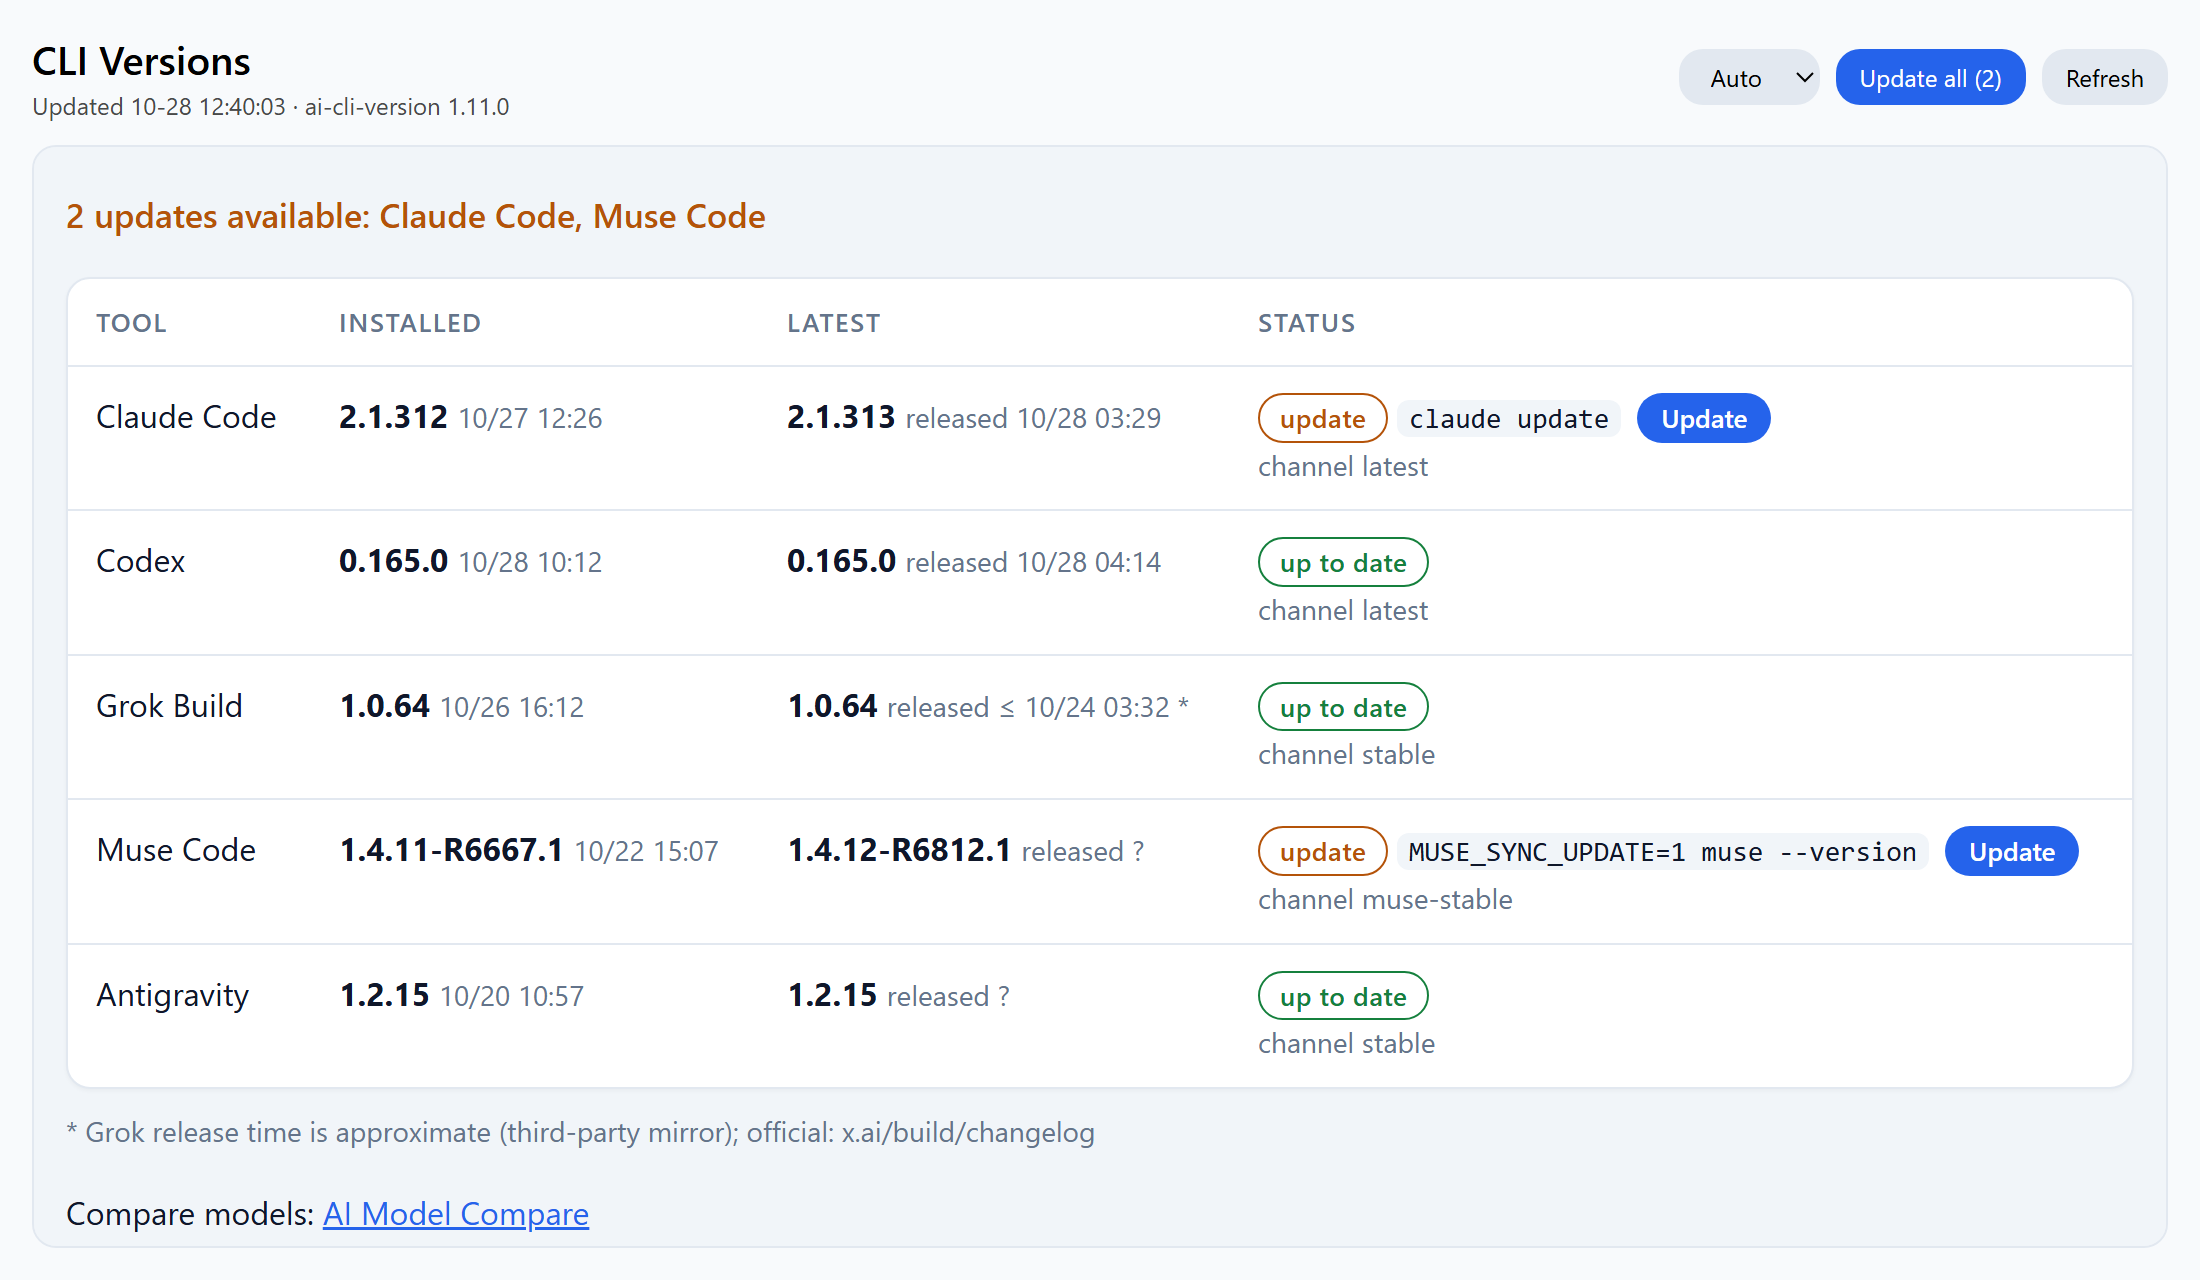
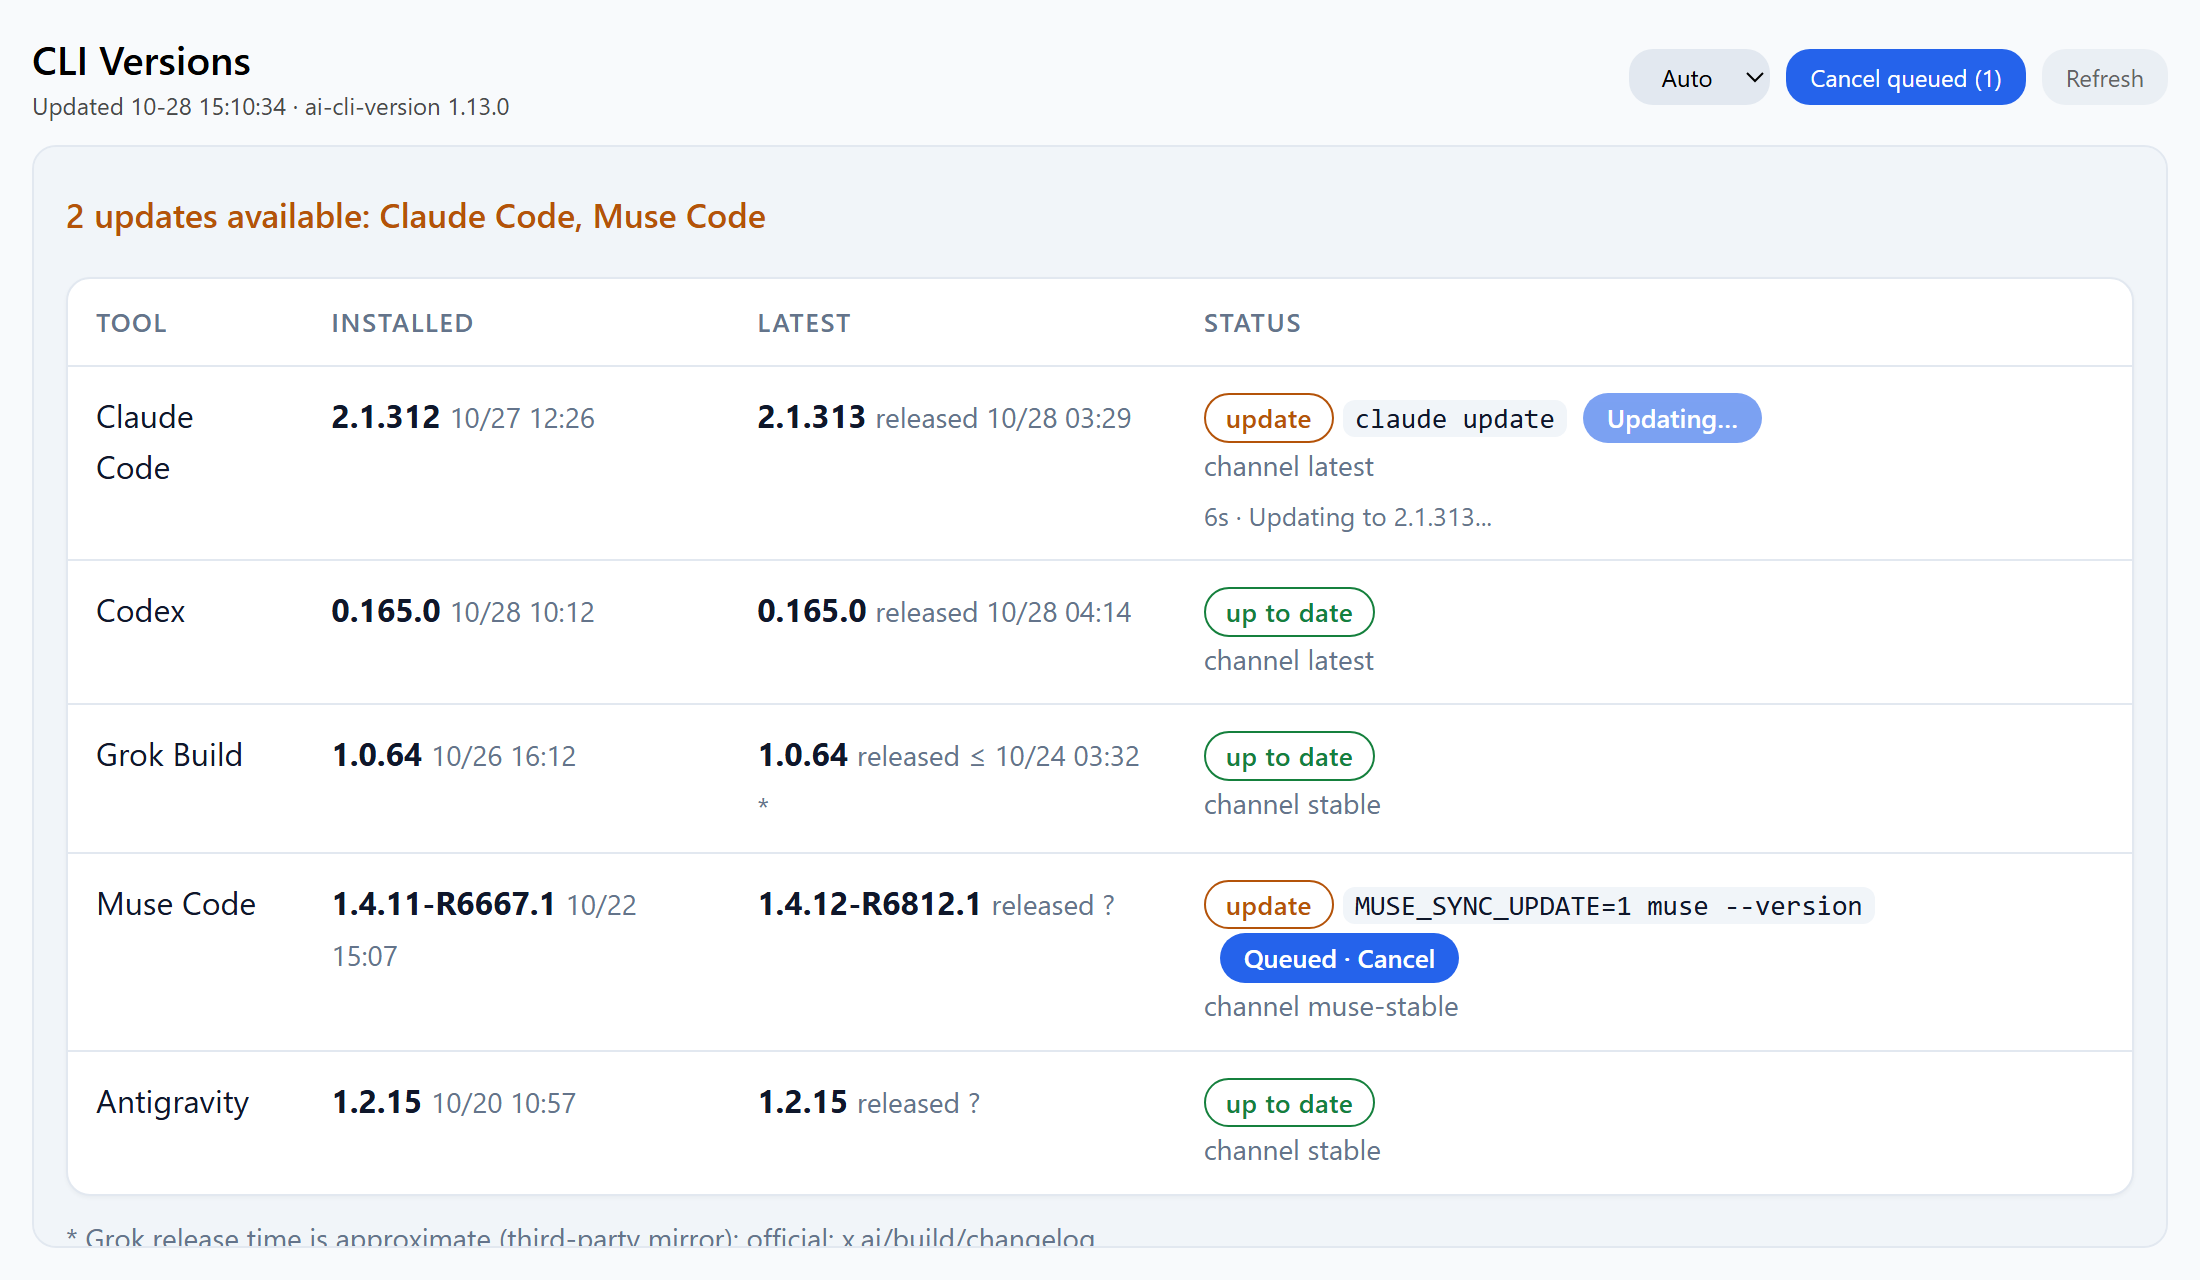
fix: improve Codex session lookup and update report documentation

diff --git a/skills/ai-usage/session_info.py b/skills/ai-usage/session_info.py
@@ -8,7 +8,11 @@ no credentials, nothing launched. Field names found 2026-09-22 on Windows 11:
 
   claude  ~/.claude/projects/<proj>/<id>.jsonl
           assistant lines: message.model, effort, perTurnEffort
-  codex   ~/.codex/sessions/YYYY/MM/DD/rollout-*.jsonl
+  codex   ~/.codex/state_*.sqlite (found 2026-10-29): newest row of `threads` by
+          updated_at: model, reasoning_effort. Rollout files stop being touched after a
+          thread's first turns (a thread updated 10-29 kept a 10-27 mtime), so the newest
+          file can be an older thread. Fallback when the index is missing or unreadable:
+          ~/.codex/sessions/YYYY/MM/DD/rollout-*.jsonl,
           last {"type":"turn_context"}: payload.model, effort
   grok    ~/.grok/sessions/<cwd>/<id>/summary.json: current_model_id, reasoning_effort
   muse    ~/.local/share/muse/sessions/YYYY/MM/DD/<id>/session.jsonl (found 2026-09-24):
@@ -33,7 +37,7 @@ no credentials, nothing launched. Field names found 2026-09-22 on Windows 11:
 Every value is what the CLI recorded for its last turn, not what the config defaults to.
 A field the files do not carry prints `?` rather than a guess.
 """
-import datetime, json, os, re, sys
+import datetime, json, os, re, sqlite3, sys
 from pathlib import Path
 
 sys.path.insert(0, str(Path(__file__).resolve().parent))
@@ -110,6 +114,19 @@ def claude():
 
 
 def codex():
+    db = newest((HOME / ".codex").glob("state_*.sqlite"))
+    if db:
+        try:
+            con = sqlite3.connect("file:%s?mode=ro" % db[1].as_posix(), uri=True)
+            try:
+                row = con.execute("SELECT updated_at, model, reasoning_effort FROM threads"
+                                  " WHERE model IS NOT NULL ORDER BY updated_at DESC LIMIT 1").fetchone()
+            finally:
+                con.close()
+            if row:
+                return report(row[0], row[1], row[2])
+        except sqlite3.Error:
+            pass
     hit = newest((HOME / ".codex" / "sessions").rglob("rollout-*.jsonl"))
     if not hit:
         return print("no local session")

diff --git a/skills/ai-usage/portable.py b/skills/ai-usage/portable.py
@@ -16,7 +16,7 @@ Neither has any effect on macOS or Linux.
 import atexit, json, os, shutil, signal, subprocess, sys, time
 
 # Bumped by hand. `metadata.version` in SKILL.md mirrors this; keep them equal.
-VERSION = "1.18.0"
+VERSION = "1.18.1"
 CALL_TIMEOUT = 20
 
 # 20 cells. Each cell is 5 points; the partial cell is one of 8 eighths, so the

diff --git a/skills/ai-cli-version/run.py b/skills/ai-cli-version/run.py
@@ -29,7 +29,7 @@ import urllib.request
 from concurrent.futures import ThreadPoolExecutor
 
 # Bumped by hand. `metadata.version` in SKILL.md mirrors this; keep them equal.
-VERSION = "1.14.0"
+VERSION = "1.14.1"
 
 TIMEOUT = 20
 HOME = os.path.expanduser("~")

diff --git a/skills/ai-cli-version/README.md b/skills/ai-cli-version/README.md
@@ -136,20 +136,25 @@ background (`run.py --serve`, Python standard library only) and opens
   report is cleared and the page shows `Checking versions…`; a failed run shows the
   error, never the old versions. Reloading the page only re-reads the last report.
 - **Update** appears on each row with an update, and **Update all (N)** at the top when
-  there are two or more. While an updater runs, its row shows the elapsed seconds and
-  the updater's own latest output line (no updater reports a percentage). Update all
-  queues every tool with an update and runs them one at a time. While updates run, only
-  cancelling works: a queued row's button reads `Queued · Cancel` and takes just that tool
-  off the queue, and the top button reads `Cancel queued (N)` and drops every tool that
-  has not started. The running row, the other rows and Refresh stay disabled until the
-  queue ends, and the one already running always finishes, since stopping an installer
-  halfway could leave a broken install. A failure does not stop the rest. When one finishes, the server
-  re-checks just that tool and the page swaps in
-  just its row (`Updated just now`, or the error and a **Retry** button); the rest of the
-  report stays as it is. The page sends only the tool name: the server re-checks that
-  tool first, does nothing if it is already current, and runs the same updater as its
-  `update_cmd` without a shell (on Windows with `System32` first on PATH, so the Codex
-  installer finds Windows' own `tar`). In the agent, updating still waits for `y` / `Esc`.
+  there are two or more:
+  - **Update** on a row runs just that tool. **Update all** queues every tool with an
+    update and runs them one at a time; a failure does not stop the rest.
+  - While an updater runs, its row shows the elapsed seconds and the updater's own
+    latest output line (no updater reports a percentage).
+  - While updates run, only cancelling works. A queued row's button reads
+    `Queued · Cancel` and takes just that tool off the queue; the top button reads
+    `Cancel queued (N)` and drops every tool that has not started. The running row, the
+    other rows and Refresh stay disabled until the queue ends.
+  - The tool already running always finishes, since stopping an installer halfway could
+    leave a broken install. The queue lives in that browser tab: reloading the page drops
+    the tools that have not started.
+  - When a tool finishes, the server re-checks just that tool and the page swaps in just
+    its row (`Updated just now`, or the error and a **Retry** button); the rest of the
+    report stays as it is.
+  - The page sends only the tool name. The server re-checks that tool first, does
+    nothing if it is already current, and runs the same updater as its `update_cmd`
+    without a shell (on Windows with `System32` first on PATH, so the Codex installer
+    finds Windows' own `tar`). In the agent, updating still waits for `y` / `Esc`.
 - `Updated MM-DD HH:MM:SS` is when the report on screen was written.
 - **Auto / Light / Dark** picks the colours; Auto follows the OS, and the choice is kept
   in that browser.

diff --git a/skills/ai-cli-version/SKILL.md b/skills/ai-cli-version/SKILL.md
@@ -4,7 +4,7 @@ description: Check whether the Claude Code, Codex, Grok Build, Muse Code and Ant
 compatibility: Requires Python 3.9+, permission to launch subprocesses, and internet access to registry.npmjs.org, api.github.com, raw.githubusercontent.com, api.meta.ai and the Antigravity CLI auto-updater (run.app). Each tool shown needs its CLI installed; missing tools are reported as not installed. npm and Node.js are not required. Tested on Windows and macOS; Linux is not yet tested.
 metadata:
   author: Jeinn
-  version: "1.14.0"
+  version: "1.14.1"
 ---
 
 # /ai-cli-version — CLI version and update check

diff --git a/skills/ai-usage/SKILL.md b/skills/ai-usage/SKILL.md
@@ -4,7 +4,7 @@ description: Check AI subscription usage limits across Claude, ChatGPT, Grok, Mu
 compatibility: Requires Python 3.9+ and permission to launch subprocesses. Each provider shown needs its authenticated CLI and internet access; providers without a CLI are reported as unavailable. The update check reads raw.githubusercontent.com.
 metadata:
   author: Jeinn
-  version: "1.18.0"
+  version: "1.18.1"
 ---
 
 
